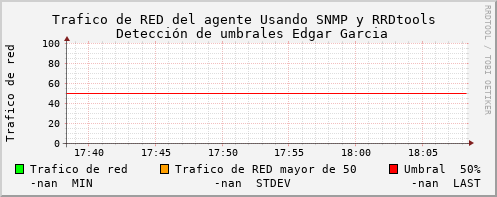
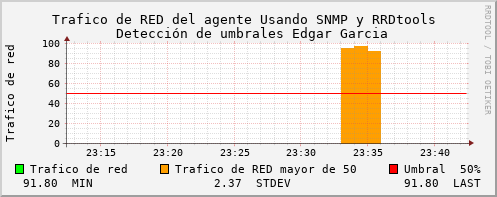
update
Corrigio lo de la red y se empezo el menu

diff --git a/p3/Parte1- Línea Base/TrendUpdate.py b/p3/Parte1- Línea Base/TrendUpdate.py
@@ -9,14 +9,14 @@ oid_cpu1 = '1.3.6.1.2.1.25.3.3.1.2.196608'
 oid_cpu2 = '1.3.6.1.2.1.25.3.3.1.2.196609'
 oid_cpu3 = '1.3.6.1.2.1.25.3.3.1.2.196610'
 oid_cpu4 = '1.3.6.1.2.1.25.3.3.1.2.196611'
-oid_ram ="1.3.6.1.4.1.2021.4.6.0"#antes del 0 un 3 para ram total
-oid_ram2 ="1.3.6.1.4.1.2021.4.3.0"
+oid_ram ="1.3.6.1.4.1.2021.4.6.0"#antes del 0 un 5 para ram total
+oid_ram2 ="1.3.6.1.4.1.2021.4.5.0"
 #entrada de trafico de red
-oid_red= "1.3.6.1.2.1.2.2.1.16"
+oid_red= "1.3.6.1.2.1.2.2.1.16.1"
 oid_red1 =".1"
 oid_red2 =".2"
 #salida de trafico de red
-oid_red_s= "1.3.6.1.2.1.2.2.1.10"
+oid_red_s= "1.3.6.1.2.1.2.2.1.10.1"
 oid_red1_s =".1"
 oid_red2_s =".2"
 
@@ -32,12 +32,12 @@ while 1:
         consultaSNMP("comunidadSNMP", "localhost", oid_ram))) * 100 / int(
         consultaSNMP("comunidadSNMP", "localhost", oid_ram2))
 
-    carga_RED = (int(consultaSNMP('comunidadSNMP','localhost',oid_red+oid_red1))+int(consultaSNMP('comunidadSNMP','localhost',oid_red+oid_red2))+int(consultaSNMP('comunidadSNMP','localhost',oid_red_s+oid_red1_s))+int(consultaSNMP('comunidadSNMP','localhost',oid_red_s+oid_red1)))/4
-
+    #carga_RED = (int(consultaSNMP('comunidadSNMP','localhost',oid_red+oid_red1))+int(consultaSNMP('comunidadSNMP','localhost',oid_red+oid_red2))+int(consultaSNMP('comunidadSNMP','localhost',oid_red_s+oid_red1_s))+int(consultaSNMP('comunidadSNMP','localhost',oid_red_s+oid_red1)))/4
+    carga_RED = (int(consultaSNMP("comunidadSNMP","localhost",oid_red)) + (int(consultaSNMP("comunidadSNMP","localhost",oid_red_s)))/2)/10000
     valor = "N:" + str(suma)+ ":" +str(carga_RAM)+":" +str(carga_RED)
     print (valor)
     rrdtool.update(rrdpath+'trend.rrd', valor)
-   # rrdtool.dump(rrdpath+'trend.rrd','trend.xml')
+    rrdtool.dump(rrdpath+'trend.rrd','trend.xml')
     time.sleep(5)
 
 if ret:

diff --git a/p3/Parte1- Línea Base/menu.py b/p3/Parte1- Línea Base/menu.py
@@ -1,31 +1,19 @@
 from getSNMP import *
 
-oid_ram ="1.3.6.1.4.1.2021.4.6.0"#free
+if __name__ == "__main__":
+    print(f'Sistema de Administraciòn de Red'.center(50, "-"))
+    print(f'Pràctica 3 -Monitoreo'.center(50, "-"))
+    print(f'Edgar Garcìa Marciano 2020630175'.center(50, "-"))
+    print("Selecciona una de las siguientes opciones: ")
+    print("1: Start")
+    print("2: Salir")
 
-#entrada de trafico de red
-oid_red= "1.3.6.1.2.1.2.2.1.16"
-oid_red1 =".1"
-oid_red2 =".2"
-#salida de trafico de red
-oid_red_s= "1.3.6.1.2.1.2.2.1.10"
-oid_red1_s =".1"
-oid_red2_s =".2"
+    opc = int(input("Ingresa la opciòn: "))
 
-oid_ram2 ="1.3.6.1.4.1.2021.4.5.0"#total
-
-
-ram = consultaSNMP("comunidadSNMP","localhost",oid_ram)
-ram2 = consultaSNMP("comunidadSNMP","localhost",oid_ram2)
-
-porcentaje = (int(ram)*100)/(int(ram2))
-
-a= (int(ram)/1000000)
-b= (int(ram2)/1000000)
-
-c = (b-a)
-por =(c*100/b)
-
-carga_RAM = (int(consultaSNMP("comunidadSNMP","localhost",oid_ram2))-int(consultaSNMP("comunidadSNMP","localhost",oid_ram)))*100/int(consultaSNMP("comunidadSNMP","localhost",oid_ram2))
-carga_RED = (int(consultaSNMP('comunidadSNMP','localhost',oid_red+oid_red1))+int(consultaSNMP('comunidadSNMP','localhost',oid_red+oid_red2))+int(consultaSNMP('comunidadSNMP','localhost',oid_red_s+oid_red1_s))+int(consultaSNMP('comunidadSNMP','localhost',oid_red_s+oid_red1)))/4
-print(por)
-print(f'{carga_RED}')
+    if opc == 1:
+        print("Iniciando el monitoreo de la RAM, CPU, RED del agente...")
+    elif opc == 2:
+        quit()
+    else:
+        print(f'La opciòn {opc} no es correcta, seleccione de nuevo.')
+        quit()
